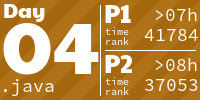
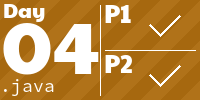
aoc tile

diff --git a/README.md b/README.md
@@ -1,9 +1,10 @@
 <html>
 <body>
 <h1>Advent Of Code</h1>
+
 <!-- AOC TILES BEGIN -->
 <h1 align="center">
-  2024 - 26 ⭐ - Java
+  2024 - 50 ⭐ - Java
 </h1>
 <a href="src/main/java/fr/home/mikedev/aoc2024/Main01.java">
   <img src=".aoc_tiles/tiles/2024/01.png" width="161px">
@@ -44,14 +45,53 @@
 <a href="src/main/java/fr/home/mikedev/aoc2024/Main13.java">
   <img src=".aoc_tiles/tiles/2024/13.png" width="161px">
 </a>
+<a href="src/main/java/fr/home/mikedev/aoc2024/Main14.java">
+  <img src=".aoc_tiles/tiles/2024/14.png" width="161px">
+</a>
+<a href="src/main/java/fr/home/mikedev/aoc2024/Main15.java">
+  <img src=".aoc_tiles/tiles/2024/15.png" width="161px">
+</a>
+<a href="src/main/java/fr/home/mikedev/aoc2024/Main16.java">
+  <img src=".aoc_tiles/tiles/2024/16.png" width="161px">
+</a>
+<a href="src/main/java/fr/home/mikedev/aoc2024/Main17.java">
+  <img src=".aoc_tiles/tiles/2024/17.png" width="161px">
+</a>
+<a href="src/main/java/fr/home/mikedev/aoc2024/Main18.java">
+  <img src=".aoc_tiles/tiles/2024/18.png" width="161px">
+</a>
+<a href="src/main/java/fr/home/mikedev/aoc2024/Main19.java">
+  <img src=".aoc_tiles/tiles/2024/19.png" width="161px">
+</a>
+<a href="src/main/java/fr/home/mikedev/aoc2024/Main20.java">
+  <img src=".aoc_tiles/tiles/2024/20.png" width="161px">
+</a>
+<a href="src/main/java/fr/home/mikedev/aoc2024/Main21.java">
+  <img src=".aoc_tiles/tiles/2024/21.png" width="161px">
+</a>
+<a href="src/main/java/fr/home/mikedev/aoc2024/Main22.java">
+  <img src=".aoc_tiles/tiles/2024/22.png" width="161px">
+</a>
+<a href="src/main/java/fr/home/mikedev/aoc2024/Main23.java">
+  <img src=".aoc_tiles/tiles/2024/23.png" width="161px">
+</a>
+<a href="src/main/java/fr/home/mikedev/aoc2024/Main24.java">
+  <img src=".aoc_tiles/tiles/2024/24.png" width="161px">
+</a>
+<a href="src/main/java/fr/home/mikedev/aoc2024/Main25.java">
+  <img src=".aoc_tiles/tiles/2024/25.png" width="161px">
+</a>
 <h1 align="center">
-  2023 - 4 ⭐ - Java
+  2023 - 6 ⭐ - Java
 </h1>
 <a href="src/main/java/fr/home/mikedev/aoc2023/Main01.java">
   <img src=".aoc_tiles/tiles/2023/01.png" width="161px">
 </a>
 <a href="src/main/java/fr/home/mikedev/aoc2023/Main02.java">
   <img src=".aoc_tiles/tiles/2023/02.png" width="161px">
+</a>
+<a href="src/main/java/fr/home/mikedev/aoc2023/Main03.java">
+  <img src=".aoc_tiles/tiles/2023/03.png" width="161px">
 </a>
 <!-- AOC TILES END -->
 </body>
